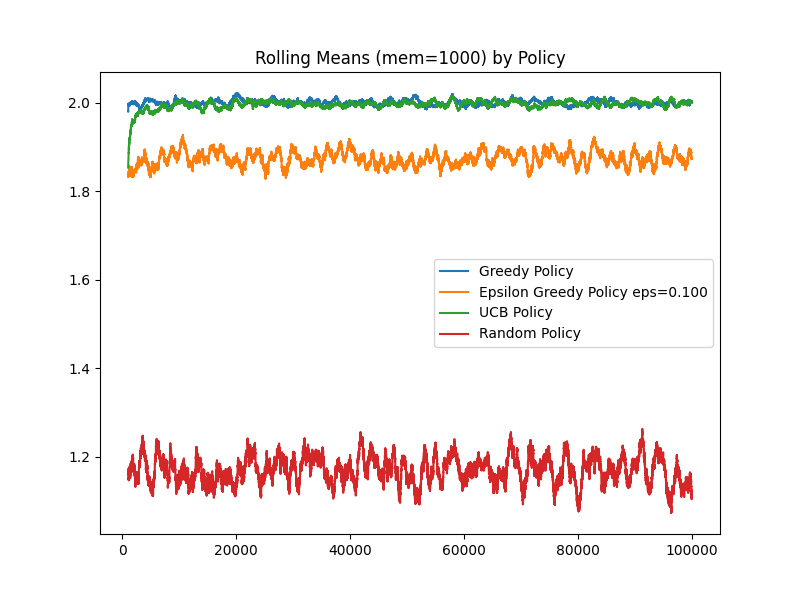
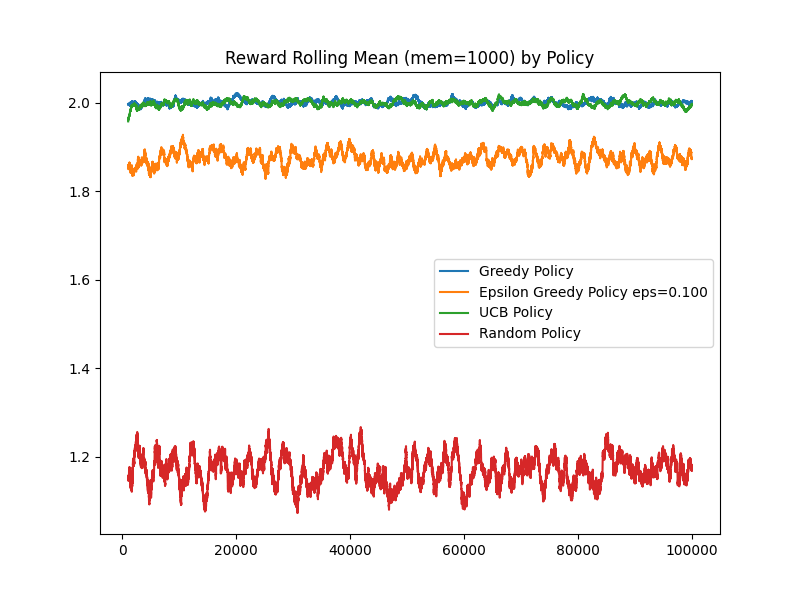
send report to md file

Changed region(s): [[0.1562, 0.72, 0.875, 0.84], [0.1562, 0.15, 0.875, 0.3], [0.2812, 0.06, 0.75, 0.12]]

diff --git a/stationary_problem/simulate.py b/stationary_problem/simulate.py
@@ -1,11 +1,11 @@
 from environ import Policy, Greedy, EpsilonGreedy, RLEnviron, UCB
 import os
+import sys
 import numpy as np
 import pandas as pd
 import matplotlib.pyplot as plt
 
 def simulate_policy(policy, n):
-    print(policy)
     actions = []
     rewards = []
     Q = []
@@ -16,18 +16,19 @@ def simulate_policy(policy, n):
         Q.append(q)
     return np.array(actions), np.array(rewards), np.asarray(Q), policy.bandit_counts
 
-def summary_report(actions, rewards, Q, action_counts):
-    print('- Average Reward: {:.3f}'.format(rewards.mean()))
+def summary_report(actions, rewards, Q, action_counts, file=sys.stdout):
+    print('- Average Reward: {:.3f}'.format(rewards.mean()), file=file)
     print(
         '- Final Q-values: [', 
         " ".join("{:.3f}".format(q) for q in Q[-1]),
-        ']'
+        ']', 
+        file=file
     )
     df = pd.DataFrame({'Action':actions, 'Reward':rewards})
-    print('- Action Frequency: ',end='')
+    print('- Action Frequency: ', end='', file=file)
     for i,n in enumerate(action_counts):
-        print("{}:{}".format(i,n), end=' ')
-    print()
+        print("{}:{}".format(i,n), end=' ', file=file)
+    print(file=file)
     return df
 
 def main():
@@ -35,9 +36,11 @@ def main():
     file = 'bandits.csv'
     rlenv = RLEnviron(os.path.join(path,file))
 
-    print(rlenv)
-    print("\nOptimal Values")
-    print(rlenv.opt_values())
+    file = open('stationary_problem/Readme.md', 'w')
+
+    print('# Comparing Greedy and Eps-Greedy Policies\n', file=file)
+    print('##', rlenv, file=file)
+    print("\nOptimal Values:", rlenv.opt_values(), file=file)
 
     greedy = Greedy(rlenv, 5.0)
     eps_greedy = EpsilonGreedy(0.1, rlenv, 5.0)
@@ -49,21 +52,30 @@ def main():
     n_warmup = 1000
     ewmalpha = 0.0001
 
+    print('##', greedy, file=file)
     grd = summary_report(
-        *simulate_policy(greedy, n_periods)
+        *simulate_policy(greedy, n_periods), file=file
     )
  
+    print('##', eps_greedy, file=file)
     egrd = summary_report(
-        *simulate_policy(eps_greedy, n_periods)
+        *simulate_policy(eps_greedy, n_periods), file=file
     )
 
-    rpol = summary_report(
-        *simulate_policy(rnd_policy, n_periods)
-    )
-
+    print('##', ucb_policy, file=file)
     ucb = summary_report(
-        *simulate_policy(ucb_policy, n_periods)
+        *simulate_policy(ucb_policy, n_periods), file=file
     )
+
+    print('##', rnd_policy, file=file)
+    rpol = summary_report(
+        *simulate_policy(rnd_policy, n_periods), file=file
+    )
+
+    print('![plot](Figure_3.png)', file=file)
+    print('![plot](Figure_1.png)', file=file)
+    print('![plot](Figure_2.png)', file=file)
+
 
     # FIGURE 1: EXP SMOOTH GRAPHS
     fig, ax = plt.subplots(figsize=(8, 6))
@@ -71,7 +83,7 @@ def main():
     egrd['Reward'].rename(eps_greedy).ewm(alpha=ewmalpha).mean()[n_warmup:].plot()
     ucb['Reward'].rename('UCB Policy').ewm(alpha=ewmalpha).mean()[n_warmup:].plot(ax=ax)    
     rpol['Reward'].rename('Random Policy').ewm(alpha=ewmalpha).mean()[n_warmup:].plot(ax=ax)    
-    plt.title('Exp Smooth Means by Policy')
+    plt.title('Reward Exp Smooth Mean by Policy')
     plt.legend()
     fig.savefig(os.path.join(path, 'Figure_1.png'))
     plt.close()
@@ -82,7 +94,7 @@ def main():
     egrd['Reward'].rename(eps_greedy).rolling(window=n_rolling).mean().plot(ax=ax)
     ucb['Reward'].rename('UCB Policy').rolling(window=n_rolling).mean().plot(ax=ax)    
     rpol['Reward'].rename('Random Policy').rolling(window=n_rolling).mean().plot(ax=ax)
-    plt.title(f'Rolling Means (mem={n_rolling}) by Policy')
+    plt.title(f'Reward Rolling Mean (mem={n_rolling}) by Policy')
     plt.legend()
     fig.savefig(os.path.join(path, 'Figure_2.png'))
     plt.close()

diff --git a/stationary_problem/environ.py b/stationary_problem/environ.py
@@ -88,7 +88,8 @@ class Policy:
         self, 
         env: RLEnviron, 
         initial_value: float, 
-        step_size: float = 1.0
+        step_size: float = 1.0,
+        step_type: str = 'default'
         ) -> None:
 
         if step_size <= 0.0 or step_size > 1.0:
@@ -97,6 +98,7 @@ class Policy:
         self.initial_value = initial_value
         self.Q = np.array([initial_value for _ in range(env.get_size())])
         self.step_size = step_size
+        self.step_type = step_type
 
         self.bandit_counts = np.zeros(self.env.get_size(), dtype=np.int32)
 
@@ -107,19 +109,20 @@ class Policy:
         return np.random.choice(self.env.get_size())
     
     def q_update(self, k:int, reward:float):
-        self.Q[k] += self.step_size * (reward - self.Q[k])
+        self.Q[k] += self.s_size(k) * (reward - self.Q[k])
 
     def update(self):
         action = self.select_action()
         reward = self.env.k_outcome(action)
-        self.q_update(action, reward)
-        self.s_update()
         self.bandit_counts[action] += 1
+        self.q_update(action, reward)
         return action, reward, self.Q
 
-    def s_update(self):
-        n = 1.0 if self.step_size == 0.0 else 1.0 / self.step_size
-        self.step_size = 1.0 / (n + 1.0)
+    def s_size(self, k:int):
+        if self.step_type == 'constant':
+            return self.step_size
+        else:
+            return self.step_size / self.bandit_counts[k]
 
     def __repr__(self) -> str:
         fmt = "Policy(env={0.env!r},initial_value={0.initial_value},step_size={0.step_size})"

diff --git a/stationary_problem/Readme.md b/stationary_problem/Readme.md
@@ -1,37 +1,28 @@
 # Comparing Greedy and Eps-Greedy Policies
 
-## RL Environment
-- Bandit(avg_reward = 1.5, std_reward = 0.1)
-- Bandit(avg_reward = 2.0, std_reward = 0.2)
-- Bandit(avg_reward = 0.0, std_reward = 1.0)
-
-Optimal Values: [1.5, 2.0, 0.0]
+## RL Environment:
+Bandit(avg_reward = 1.5, std_reward = 0.1)
+Bandit(avg_reward = 2.0, std_reward = 0.2)
+Bandit(avg_reward = 0.0, std_reward = 1.0)
 
 
+Optimal Values: [1.5 2.  0. ]
 ## Greedy Policy
-
-- Average Reward: 2.000
-- Final Q-values: [ 1.989 2.001 1.970 ]
-- Action Frequency: 0:16 1:99978 2:6 
-
-## Epsilon Greedy Policy (eps=0.1)
-
+- Average Reward: 2.001
+- Final Q-values: [ 1.512 2.001 1.033 ]
+- Action Frequency: 0:1 1:99998 2:1 
+## Epsilon Greedy Policy eps=0.100
 - Average Reward: 1.874
-- Final Q-values: [ 1.921 2.001 -0.030 ]
-- Action Frequency: 0:4999 1:89903 2:5098 
-
-## UCB Policy
-
-- Average Reward: 1.995
-- Final Q-values: [ 1.730 1.999 1.139 ]
-- Action Frequency: 0:547 1:99393 2:60 
-
+- Final Q-values: [ 1.501 2.000 0.011 ]
+- Action Frequency: 0:4941 1:89961 2:5098 
+## UCB Policy(2.0)
+- Average Reward: 1.999
+- Final Q-values: [ 1.489 2.000 0.169 ]
+- Action Frequency: 0:163 1:99823 2:14 
 ## Random Action Policy
-
 - Average Reward: 1.170
-- Final Q-values: [ 1.503 2.106 0.170 ]
-- Action Frequency: 0:33169 1:33513 2:33318 
-
+- Final Q-values: [ 1.500 2.000 -0.004 ]
+- Action Frequency: 0:33266 1:33611 2:33123 
 ![plot](Figure_3.png)
 ![plot](Figure_1.png)
 ![plot](Figure_2.png)
